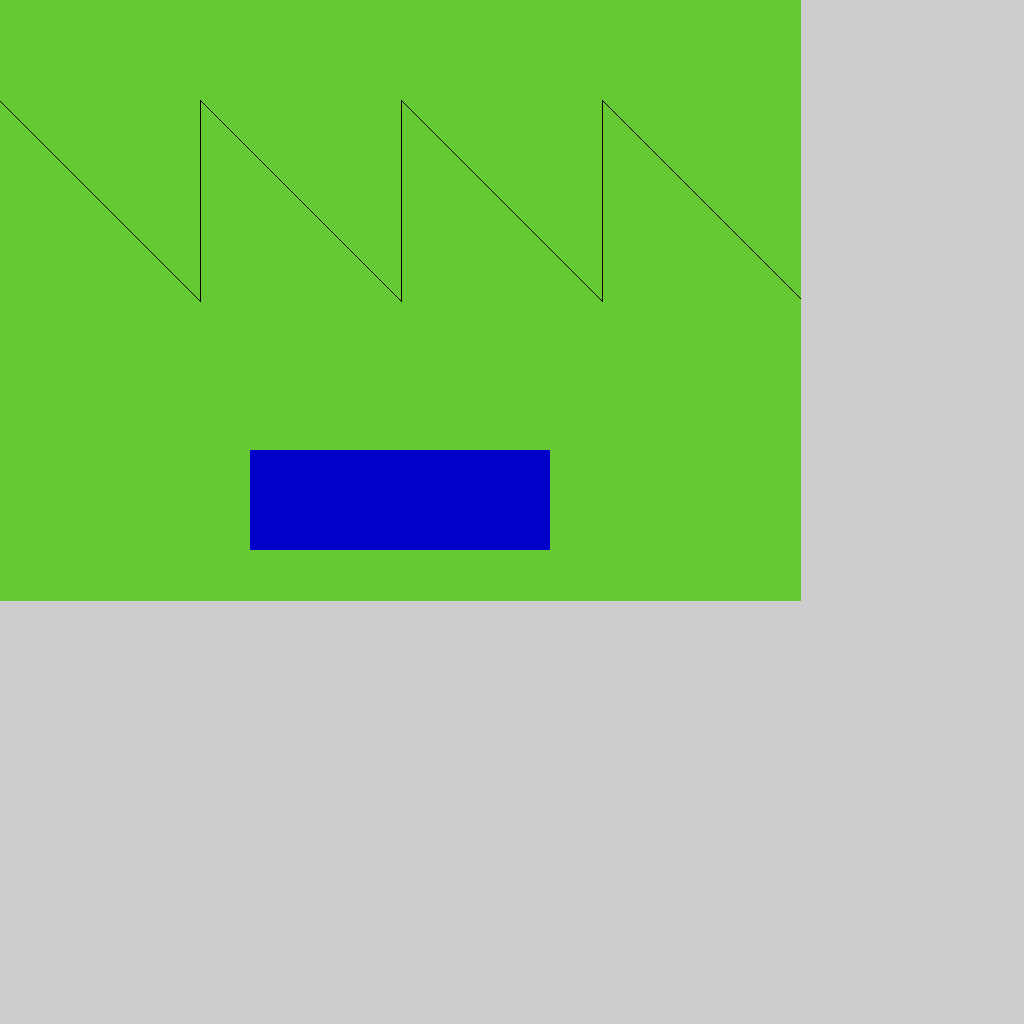
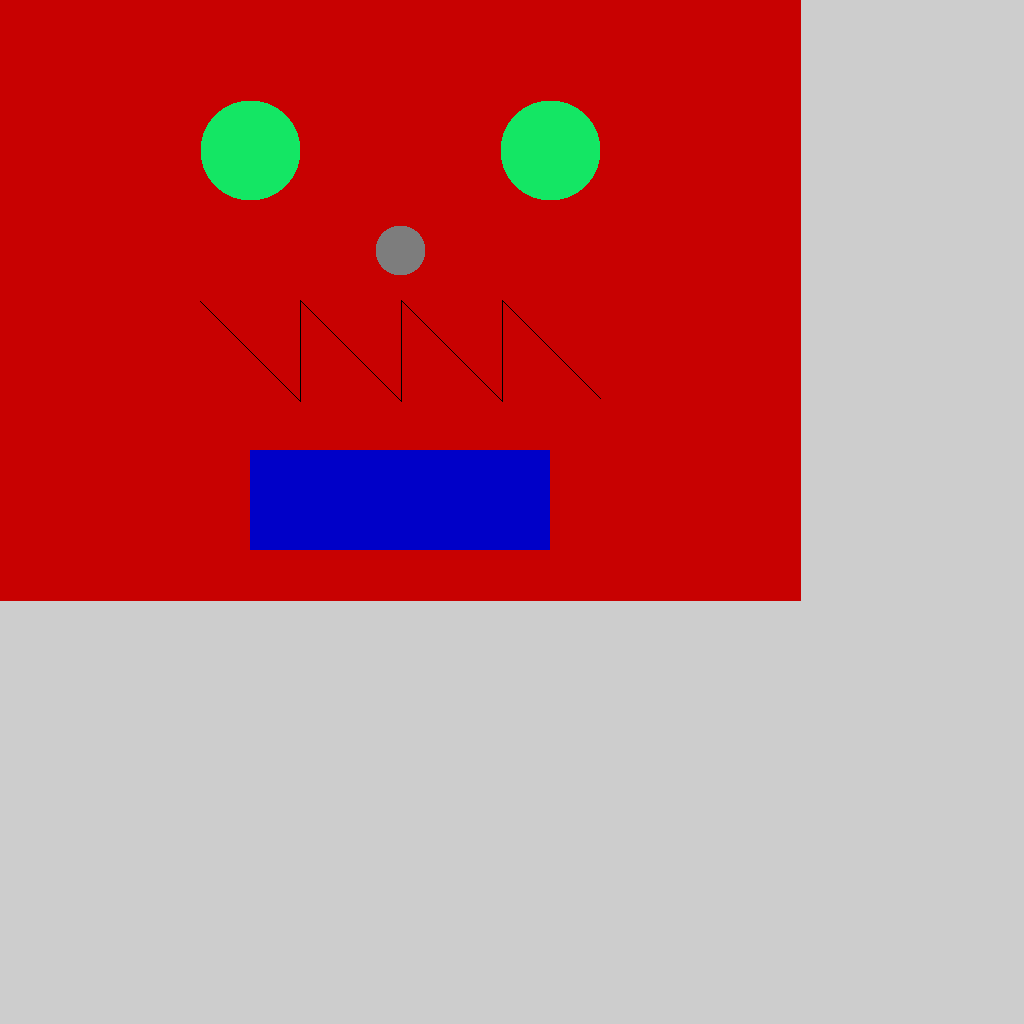
Added circles and created an image

diff --git a/src/CatPictureApp.cpp b/src/CatPictureApp.cpp
@@ -23,11 +23,10 @@ private:
 	static const int kAppWidth = 800;
 	static const int kColorMax = 255;
 	void drawRectangles(uint8_t* pixels);
-	void drawCircle(uint8_t* pixels);
+	void drawCircle(uint8_t* pixels, int y_Center, int x_Center, int radius, int cG, int cB, int cR);
 	void colorWholeSurface(uint8_t* pixels, int cG, int cB, int cR);
 	void drawLine(uint8_t*);
 	void blurSurface(uint8_t*);
-	void drawTriangle(uint8_t* pixels);
 	int cG;
 	int cB;
 	int cR;
@@ -54,61 +53,39 @@ void CatPictureApp::drawRectangles(uint8_t* pixels){
 	}
 }
 
-void CatPictureApp::drawCircle(uint8_t* pixels){
-	int y_Center = 10;
-	int x_Center = 10;
-	int radius = 5;
+void CatPictureApp::drawCircle(uint8_t* pixels, int y_Center, int x_Center, int radius, int cG, int cB, int cR){
 	Color8u c;
-	cR = 200;
-	cG = 100;
-	cB = 200;
 
-	while(x_Center <= kAppWidth && y_Center <= kAppHeight) {
 	for(int y = y_Center - radius; y <= y_Center+radius; y++){
 		for(int x = x_Center - radius; x <= x_Center+radius; x++){
 			//int dist = (
 			c = Color8u(cG,cB,cR);
-			cG++;
-			cB++;
-			cR++;
+			int dist = (int)sqrt((double)((x-x_Center)*(x-x_Center))+((y-y_Center)*(y-y_Center)));
+			if(dist < radius){
 			pixels[(3*(x + y*kTextureSize))] = c.r;
-			//pixels[(3*(x + y*kTextureSize)+1)] = c.g;
-			//pixels[(3*(x + y*kTextureSize)+2)] = c.b;
-			//pixels[(3*(y*kTextureSize-x))] = c.r;
-			//pixels[(3*(y*kTextureSize-x)+1)] = c.g;
-			//pixels[(3*(y*kTextureSize-x)+2)] = c.b;
+			pixels[(3*(x + y*kTextureSize)+1)] = c.g;
+			pixels[(3*(x + y*kTextureSize)+2)] = c.b;
+			}
 
-			if(cR > kColorMax){
-				cR = 0;
-			}
-			if(cG > kColorMax){
-				cG = 0;
-			}
-			if(cB > kColorMax){
-				cB = 0;
-			}
 		}
-	}
-	y_Center = y_Center*2+radius;
-	x_Center = x_Center*2+radius;
 	}
 }
 
 void CatPictureApp::drawLine(uint8_t* pixels){
 	Color8u c;
 	int color = 0;
-	int y_Coord = 100;
+	int y_Coord = 300;
 
-	for(int x = 0; x <= kAppWidth; x++){
+	for(int x = 200; x <= 600; x++){
 		c = Color8u(color, color, color);
-		if(y_Coord <= 300){
+		if(y_Coord <= 400){
 		y_Coord++;
 		pixels[(3*(x + y_Coord*kTextureSize))] = c.r;
 		pixels[(3*(x + y_Coord*kTextureSize)+1)] = c.g;
 		pixels[(3*(x + y_Coord*kTextureSize)+2)] = c.b;
 		}
-		if(y_Coord > 300){
-			for(int i = 0; i <= 200; i++){
+		if(y_Coord > 400){
+			for(int i = 0; i <= 100; i++){
 				y_Coord--;
 				pixels[(3*(x + y_Coord*kTextureSize))] = c.r;
 				pixels[(3*(x + y_Coord*kTextureSize)+1)] = c.g;
@@ -116,19 +93,6 @@ void CatPictureApp::drawLine(uint8_t* pixels){
 			}
 		}
 	}
-}
-
-void CatPictureApp::drawTriangle(uint8_t* pixels){
-	Color8u c;
-	cR = 100;
-	cB = 50;
-	cG = 200;
-	int x_Top = 200;
-	int y_Top = 100;
-	int x_Right = 100;
-	int x_Left = 400;
-	int y_Bottom = 400;
-	
 }
 
 void CatPictureApp::colorWholeSurface(uint8_t* pixels, int cG, int cB, int cR){
@@ -144,9 +108,11 @@ void CatPictureApp::colorWholeSurface(uint8_t* pixels, int cG, int cB, int cR){
 	}
 }
 
-void CatPictureApp::blurSurface(uint8_t*){
+void CatPictureApp::blurSurface(uint8_t* pixels){
 	static uint8_t work_buffer[3*kTextureSize*kTextureSize];
-	//memcpy(
+	memcpy(work_buffer, pixels, 3*kTextureSize*kTextureSize);
+
+
 }
 
 void CatPictureApp::prepareSettings(Settings* settings){
@@ -160,7 +126,7 @@ void CatPictureApp::setup()
 	mySurface = new Surface(kTextureSize,kTextureSize,false);
 	cG = 10;
 	cB = 250;
-	cR = 0;
+	cR = 100;
 }
 
 void CatPictureApp::mouseDown( MouseEvent event )
@@ -180,14 +146,15 @@ void CatPictureApp::update()
 		if(cB > kColorMax) {
 			cB = 0;
 		}
-		colorWholeSurface(pixels, cG, cB, cR);
+	colorWholeSurface(pixels, cG, cB, cR);
 	drawRectangles(pixels);
 	drawLine(pixels);
-	drawTriangle(pixels);
+	drawCircle(pixels, 150, 250, 50, 20, 230, 100);
+	drawCircle(pixels, 150, 550, 50, 20, 230, 100);
+	drawCircle(pixels, 250, 400, 25, 125, 125, 125);
 
 	//Saves the image to a png file
 	writeImage("brennerCatPic.png",*mySurface);
-	//drawCircle(pixels);
 }
 
 void CatPictureApp::draw()
